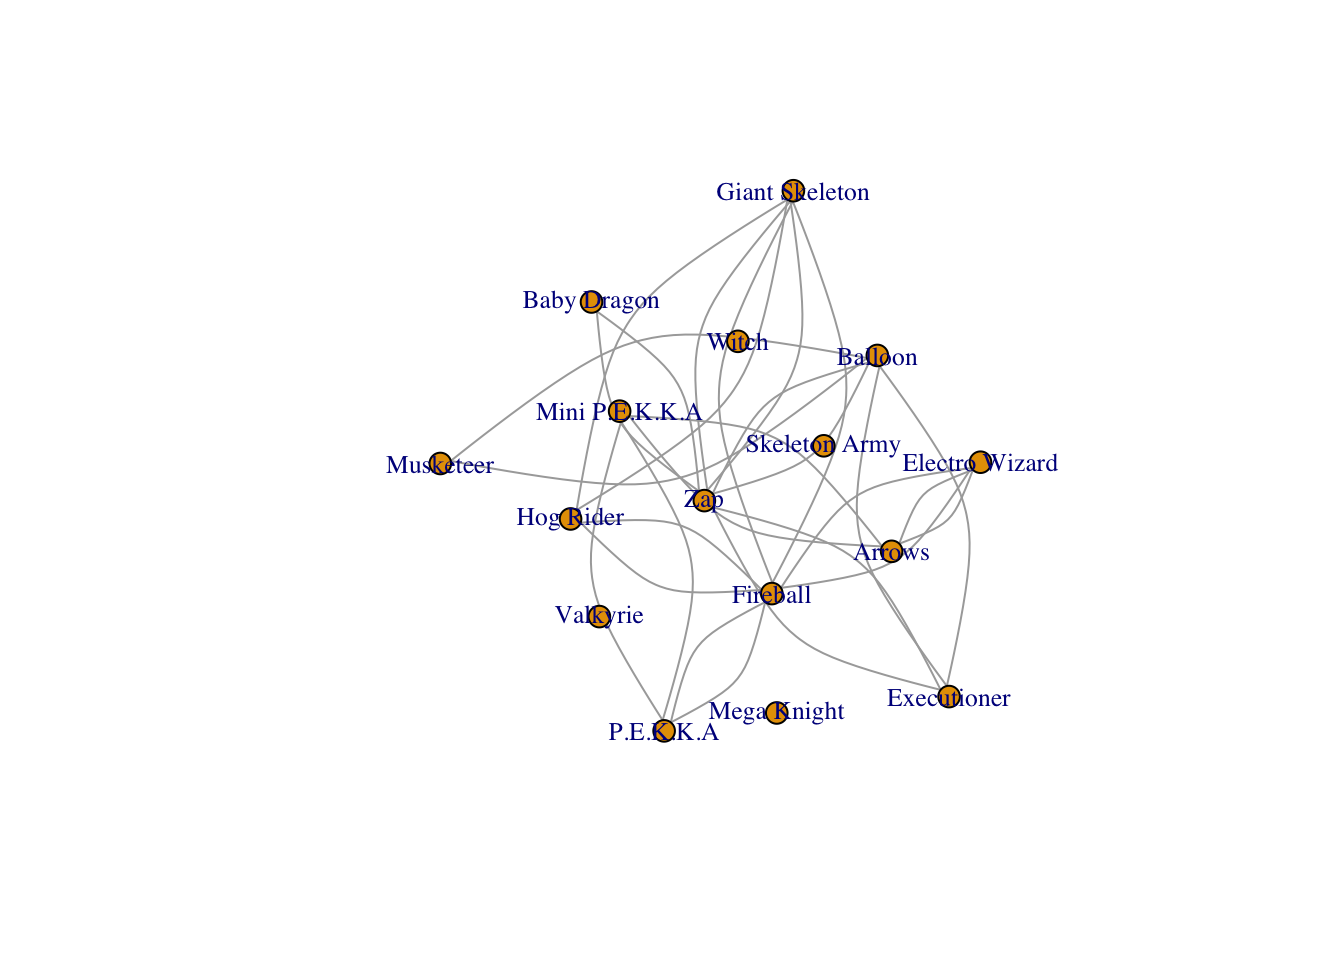
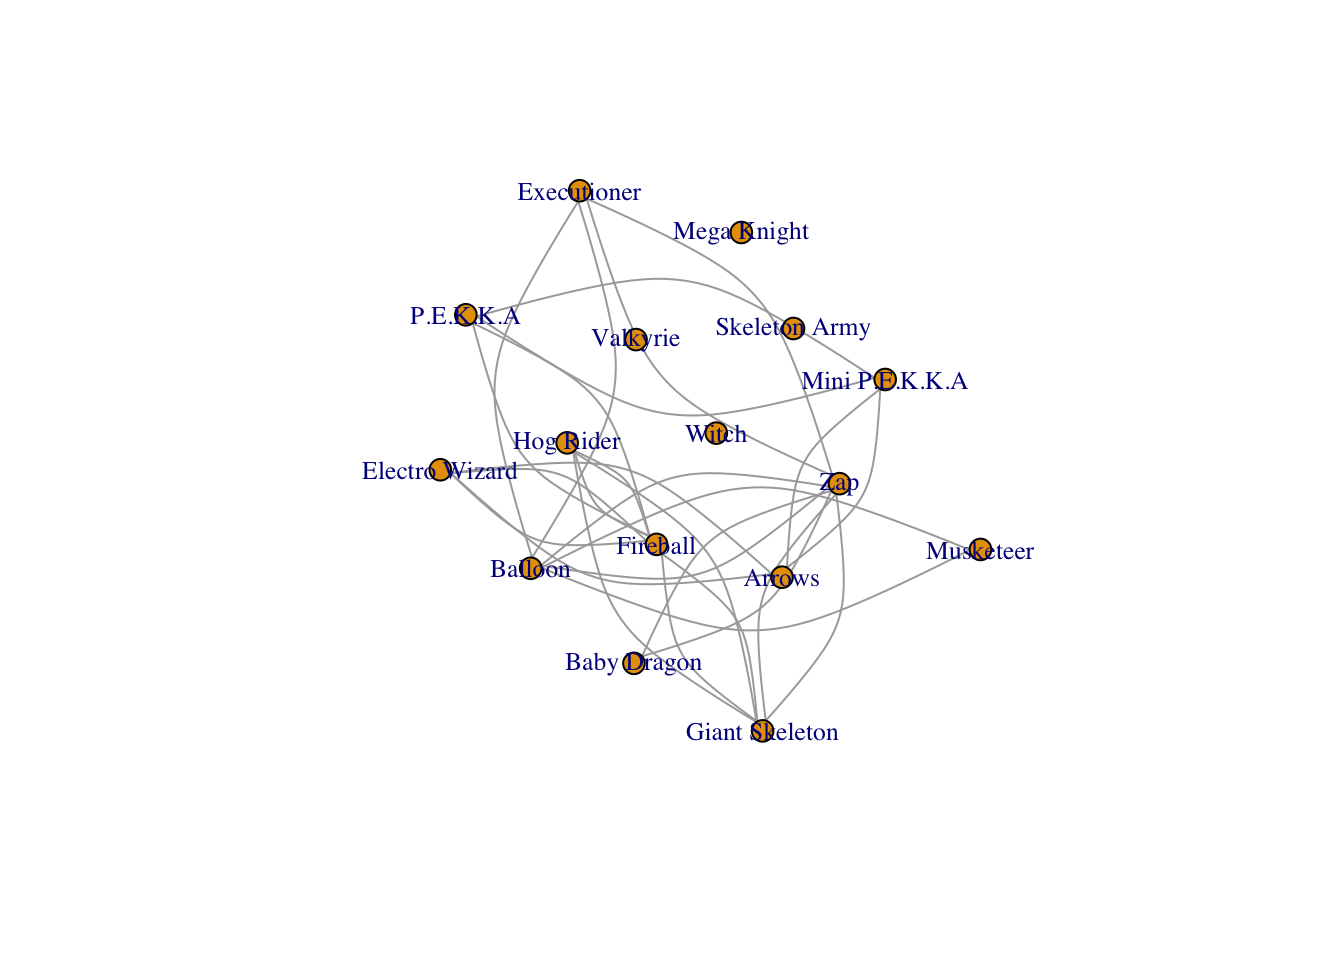
update

Changed region(s): [[0.2812, 0.1875, 0.7812, 0.7812], [0.6562, 0.6875, 0.75, 0.75]]

diff --git a/kevineuyoque/clash_royale/ClashRoyaleDraft.html b/kevineuyoque/clash_royale/ClashRoyaleDraft.html
@@ -360,9 +360,9 @@ Methods
 <p>To represent Clash Royale synergy as a network, we will model the data as a graph.</p>
 <div class="cell">
 <div class="cell-output cell-output-stdout">
-<pre><code>IGRAPH d6b6b8b UN-- 69 1572 -- 
+<pre><code>IGRAPH cf2b833 UN-- 69 1572 -- 
 + attr: name (v/c), decks (e/n), wins (e/n), winrate (e/n)
-+ edges from d6b6b8b (vertex names):
++ edges from cf2b833 (vertex names):
  [1] Hog Rider     --Zap Valkyrie      --Zap Giant Skeleton--Zap
  [4] Baby Dragon   --Zap Mini P.E.K.K.A--Zap Witch         --Zap
  [7] Musketeer     --Zap Balloon       --Zap Arrows        --Zap
@@ -456,14 +456,36 @@ Methods
 <section id="try-it-yourself" class="level2" data-number="2.6">
 <h2 data-number="2.6" class="anchored" data-anchor-id="try-it-yourself"><span class="header-section-number">2.6</span> Try it yourself</h2>
 <div class="cell">
+<details class="code-fold">
+<summary>Code</summary>
+<div class="sourceCode cell-code" id="cb9"><pre class="sourceCode r code-with-copy"><code class="sourceCode r"><span id="cb9-1"><a href="#cb9-1" aria-hidden="true" tabindex="-1"></a>all_cards <span class="ot">&lt;-</span> <span class="fu">unique</span>(cr_season3_5000decks<span class="sc">$</span>card)</span>
+<span id="cb9-2"><a href="#cb9-2" aria-hidden="true" tabindex="-1"></a></span>
+<span id="cb9-3"><a href="#cb9-3" aria-hidden="true" tabindex="-1"></a>random_16 <span class="ot">&lt;-</span> <span class="fu">sample</span>(all_cards, <span class="dv">16</span>)</span>
+<span id="cb9-4"><a href="#cb9-4" aria-hidden="true" tabindex="-1"></a></span>
+<span id="cb9-5"><a href="#cb9-5" aria-hidden="true" tabindex="-1"></a>random_16</span></code><button title="Copy to Clipboard" class="code-copy-button"><i class="bi"></i></button></pre></div>
+</details>
 <div class="cell-output cell-output-stdout">
-<pre><code> [1] "Giant Snowball"   "Tornado"          "Elite Barbarians" "Skeletons"       
- [5] "Rascals"          "Fire Spirits"     "Lumberjack"       "Flying Machine"  
- [9] "Mini P.E.K.K.A"   "Spear Goblins"    "Prince"           "Fisherman"       
-[13] "Elixir Collector" "Minion Horde"     "Hog Rider"        "Hunter"          </code></pre>
+<pre><code> [1] "Goblins"          "Flying Machine"   "Rocket"           "Arrows"          
+ [5] "Royal Recruits"   "Ice Golem"        "Royal Hogs"       "Elixir Collector"
+ [9] "Ice Spirit"       "Goblin Giant"     "Royal Giant"      "Giant"           
+[13] "Goblin Cage"      "Skeletons"        "Fisherman"        "Cannon Cart"     </code></pre>
 </div>
 </div>
+<p>This bit of code allows for a random sample of any 16 cards within the dataset</p>
 <div class="cell">
+<details class="code-fold">
+<summary>Code</summary>
+<div class="sourceCode cell-code" id="cb11"><pre class="sourceCode r code-with-copy"><code class="sourceCode r"><span id="cb11-1"><a href="#cb11-1" aria-hidden="true" tabindex="-1"></a>pair_data_random <span class="ot">&lt;-</span> pair_data <span class="sc">|&gt;</span></span>
+<span id="cb11-2"><a href="#cb11-2" aria-hidden="true" tabindex="-1"></a>  <span class="fu">filter</span>(card1 <span class="sc">%in%</span> random_16, card2 <span class="sc">%in%</span> random_16)</span>
+<span id="cb11-3"><a href="#cb11-3" aria-hidden="true" tabindex="-1"></a>  </span>
+<span id="cb11-4"><a href="#cb11-4" aria-hidden="true" tabindex="-1"></a>network_random <span class="ot">&lt;-</span> <span class="fu">graph_from_data_frame</span>(pair_data_random, <span class="at">directed =</span> <span class="cn">FALSE</span>)</span>
+<span id="cb11-5"><a href="#cb11-5" aria-hidden="true" tabindex="-1"></a>  </span>
+<span id="cb11-6"><a href="#cb11-6" aria-hidden="true" tabindex="-1"></a><span class="fu">plot</span>(network_random,</span>
+<span id="cb11-7"><a href="#cb11-7" aria-hidden="true" tabindex="-1"></a>       <span class="at">layout =</span> <span class="fu">layout_with_fr</span>(network_random),</span>
+<span id="cb11-8"><a href="#cb11-8" aria-hidden="true" tabindex="-1"></a>       <span class="at">vertex.size =</span> <span class="dv">8</span>,</span>
+<span id="cb11-9"><a href="#cb11-9" aria-hidden="true" tabindex="-1"></a>       <span class="at">vertex.label.cex =</span> <span class="fl">0.8</span>,</span>
+<span id="cb11-10"><a href="#cb11-10" aria-hidden="true" tabindex="-1"></a>       <span class="at">edge.width =</span> <span class="fu">E</span>(network_random)<span class="sc">$</span>winrate <span class="sc">*</span> <span class="dv">8</span>)</span></code><button title="Copy to Clipboard" class="code-copy-button"><i class="bi"></i></button></pre></div>
+</details>
 <div class="cell-output-display">
 <div>
 <figure class="figure">
